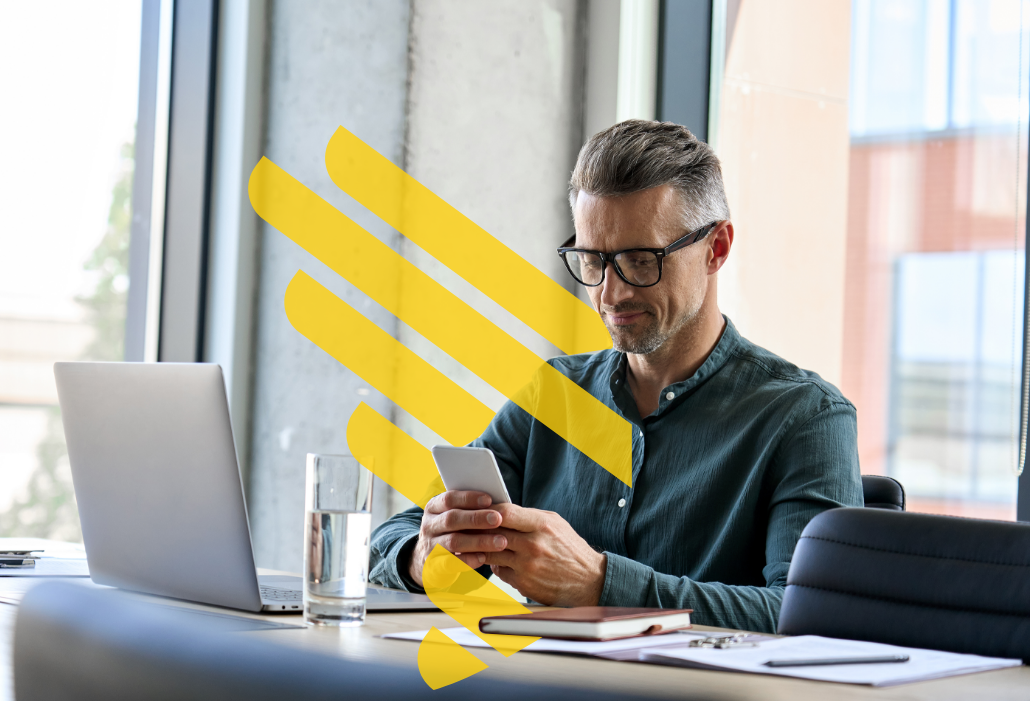
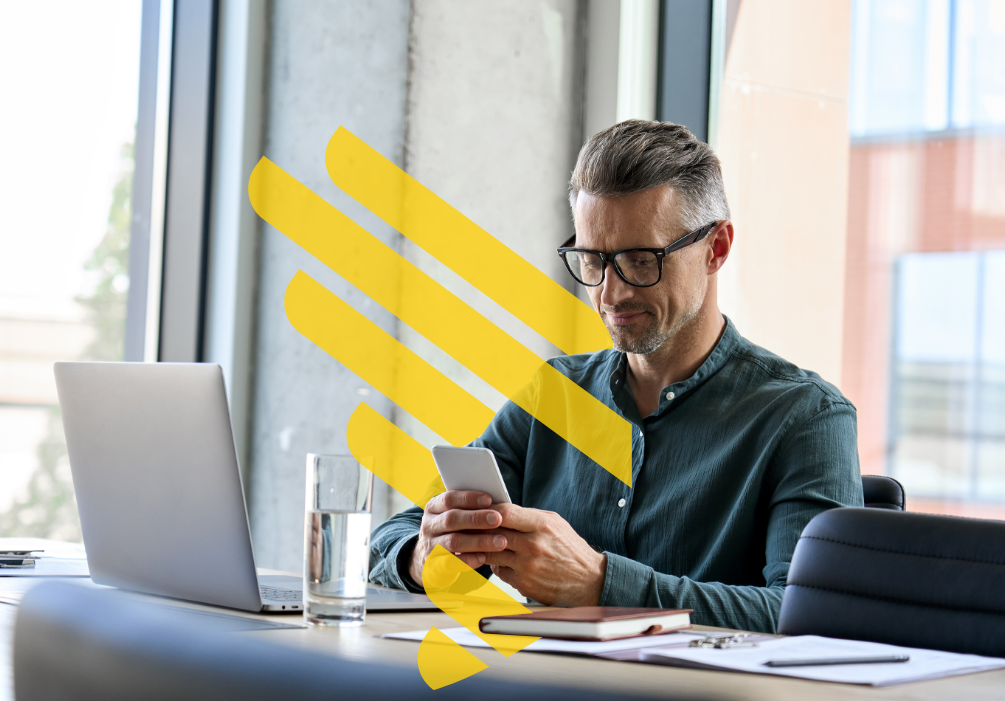
fix: /platform hero picture edge, פוליוויז wording; content coverage report
- landing-hero.png: cropped 25px from the right edge, where the picture faded
  to near-black (1030 -> 1005px); Astro regenerates the responsive sizes.
- /platform card "מסלקה פנסיונית והר הביטוח": the direct connection is to
  פוליוויז, which pulls the הר הביטוח data, as in the content document
  (docs/content-coverage.md X1).
- docs/content-coverage.md: Content agent's item-by-item check of the site
  against the content document (67 of 72 covered; the rest are HubSpot form
  fields and one optional "בקרוב" card).

diff --git a/docs/content-coverage.md b/docs/content-coverage.md
@@ -1,0 +1,245 @@
+# Content coverage: "תוכן לדף אתר NOVIDEA בעברית" vs the Hebrew site
+
+**Owner:** Content agent (`content`) · **Status:** proposal, nothing applied · **Date:** 20/11/2026
+
+**Question asked by the owner:** does the site cover every item in the content document? The wording can differ, but no item, and especially no product module or capability, may be missing or weakened.
+
+**Short answer:** yes for all reader-facing copy. Every heading, sentence, module, capability, advantage and Israel bullet is on the site, including all three "בקרוב" marks and every named integration. The gaps are:
+1. **The lead form** (HubSpot, not site code): two of the six fields ("תפקיד" and "גודל הסוכנות") don't exist, and two more ("שם הסוכנות / בית הסוכן", "דוא״ל עסקי") exist only under generic labels. This is already open in `Open tasks.md` §3.
+2. **One "בקרוב" module is shown smaller than in the document.** Automatic download of production files from the insurers' websites is its own bullet in the document, but on `/solution` it's a small note under another card.
+3. **One wording conflict on `/platform`.** The page says the system connects directly to הר הביטוח. The document says the connection is to פוליוויז, which pulls the הר הביטוח data.
+
+## How this was checked
+
+- **Document:** `docs/sources/content-document.he.md`. The owner confirmed it matches the PDF they re-attached. Every heading, sentence, bullet, table row and form field counts as one item. Section labels that only say where text goes (for example "כותרת ראשית" or "פתיחת ליד") are counted too and marked "editorial label".
+- **Site:** `src/content/pages/he/*.yaml` (home, solution, capabilities, why-novidea, israel, contact, platform), `src/content/shared/he.yaml`, the Hebrew values in `src/i18n/ui.ts`, and the block components to see what actually renders (`FeaturesBlock.astro` for `soon` / `soonNote`, `LeadForm.astro` for `fields`). `/solution` was also checked on the live site (https://novidea-israel.vercel.app/solution, 20/11/2026): all 14 cards and the 3 "בקרוב" labels render as the YAML says.
+- **Not verified directly:** the HubSpot form. It loads inside HubSpot's iframe only after marketing-cookie consent, so the repo can't show it. Its current fields come from `Open tasks.md` §3.
+- **Pending questions:** items waiting on Novidea in `docs/content-review.md` (Q3–Q18) are referenced here, not re-opened.
+
+## Summary
+
+| Status | Count | Of which editorial labels |
+|---|---|---|
+| Covered | 67 | 5 |
+| Partial | 3 | 0 |
+| Missing | 2 | 0 |
+| **Total items** | **72** | 5 |
+
+One partial item is a module (M6, how it's displayed on `/solution`). The other two partials and both missing items are HubSpot form fields. No text is missing from the homepage, `/solution`, `/capabilities`, `/why-novidea` or `/israel`.
+
+Field paths: `sections[id]` is the block with that `id`; indexes (`items[n]`, `paragraphs[n]`, `intro[n]`, `names[n]`) count from 1.
+
+---
+
+## 1. Coverage matrix
+
+### 1.1 כותרת ראשית, מסרים נוספים, טקסט מקוצר (homepage)
+
+| # | Document item | Site location | Status | Note |
+|---|---|---|---|---|
+| H1 | Section label "כותרת ראשית" | `home.yaml` `hero` | Covered (editorial label) | |
+| H2 | "נובידאה - פלטפורמת הענן המובילה לניהול סוכנויות ובתי סוכן" | `home.yaml` `hero.titleStrong` + `hero.titleRest`; also `shared/he.yaml` `footerAbout` | Covered | The site adds "ביטוח" ("סוכנויות ביטוח"), which is clearer and better for SEO |
+| H3 | Section label "מסרים נוספים" | `home.yaml` `hero.lead` | Covered (editorial label) | |
+| H4 | "כל עולם הביטוח הישראלי. מערכת אחת אחודה. אינסוף אפשרויות צמיחה." | `home.yaml` `hero.lead` | Covered | Verbatim. The optional style change ("אחודה") in content-review §3.1 wasn't approved and doesn't affect coverage |
+| H5 | Section label "טקסט מקוצר" | `home.yaml` `sections[overview]` | Covered (editorial label) | |
+| H6 | Digital revolution in insurance, InsurTech cloud platform, data-driven, international awards | `home.yaml` `sections[overview].paragraphs[1]`, first sentence | Covered | "מונחית" is the approved spelling fix |
+| H7 | Speeds up growth, profitability and operational efficiency for agencies and brokers, with analytics tools and real-time business insights | `sections[overview].paragraphs[1]`, second sentence | Covered | |
+| H8 | Strong CRM base on Salesforce, a core system for the agency, the client at the center, connecting all the agency's processes | `sections[overview].paragraphs[2]` | Covered | |
+| H9 | "מתיאום פגישות, מכירות, הפקה, פרודוקציה וניהול שירות ועד ניהול תביעות וחידושים…" | `sections[overview].paragraphs[3]` | Covered | All seven stages are there |
+| H10 | "הפלטפורמה שמובילה את הסוכנויות ובתי הסוכן הגדולים בישראל" | `home.yaml` `sections[customers].title`; same on `/platform` | Covered | |
+| H11 | מבטח סימון | `sections[customers].names[1]` (logo; the name is its alt text) | Covered | |
+| H12 | קלי | `sections[customers].names[2]` | Covered | The logo reads "kali.group". Official name pending (Q9) |
+| H13 | אמנון גור | `sections[customers].names[3]` | Covered | The logo reads "GUR קבוצת ביטוח". Official name and alt text pending (Q9) |
+| H14 | "ועוד" | `sections[customers].more` | Covered | |
+
+### 1.2 הבעיה והפתרון (`/solution`)
+
+| # | Document item | Site location | Status | Note |
+|---|---|---|---|---|
+| S1 | Section label "הבעיה והפתרון" | `ui.ts` `nav.solution`; `home.yaml` `sections[explore].items[1].title` | Covered | Used as the page's menu label |
+| S2 | "נפרדים מעבודה עם ריבוי מערכות ומצווארי בקבוק תפעוליים" | `solution.yaml` `header.title` (h1); also home `explore.items[1].body` | Covered | |
+| S3 | "במשך שנים… עשרות מסכים, פורטלים של יצרנים, קובצי אקסל ומערכות Legacy ישנות שאינן מתקשרות ביניהן." | `solution.yaml` `header.intro[1]`, first sentence | Covered | |
+| S4 | "התוצאה: עומס תפעולי כבד, סרבול בעבודה, איבודי מידע וקושי בצמיחה." | `header.intro[1]`, second sentence | Covered | All four outcomes; "אובדן מידע" is the approved fix |
+| S5 | "נובידאה מביאה קונספט אחר - Single Source of Truth" | `sections[single-source-of-truth].title` | Covered | |
+| S6 | One platform for all agency activity: pension, general (P&C), financial and personal lines | `sections[single-source-of-truth].paragraphs[1]`, first sentence | Covered | All four lines of business |
+| S7 | "מניהול הליד הראשוני ועד קליטת פרודוקציה, ניהול התביעה והשירות." | same paragraph, second sentence | Covered | |
+| S8 | Open API architecture, connects easily to any tool, portal or interface | same paragraph, third sentence | Covered | |
+| S9 | "בנובידאה תמצאו מגוון מודולים ויכולות המותאמים לשוק הישראלי:" | `sections[modules].title` | Covered | |
+
+#### Modules (the 15 bullets)
+
+`/solution` has 14 cards for the 15 bullets: bullet M6 appears as a `soonNote` under card 5.
+
+| # | Document bullet | Site location (`solution.yaml` `sections[modules]`) | Status | Note |
+|---|---|---|---|---|
+| M1 | אינטגרציות מובנות לרכיבים מרכזיים באקו-סיסטם הביטוחי בישראל | `items[1].title` | Covered | No body, same as the document |
+| M2 | ממשקים למסלקה הפנסיונית ולהר הביטוח: direct connection to the pension clearing house and **פוליוויז** for הר הביטוח data and policy copies | `items[2]` title + body | Covered | All names present: מסלקה, פוליוויז, הר הביטוח, העתקי פוליסות. See X1 for `/platform` |
+| M3 | Returns and exposure tracking: built-in integration with **ביטוח-נט, גמל-נט ופנסיה-נט**, monthly | `items[3]` | Covered | All three sites named, plus "מדי חודש" |
+| M4 | Integration with **רשות המסים**: automatic submission of the employment-termination form (טופס עזיבת עבודה) for arrangement agencies | `items[4]` | Covered | Includes "סוכנויות הסדרים" |
+| M5 | Production and insurers: an advanced, flexible engine for importing production files from Israeli insurers | `items[5]` title + body | Covered | |
+| M6 | **בקרוב:** the system logs in to insurers' websites by itself, downloads the production files and imports them | `items[5].soonNote` (with a "בקרוב" label) | **Partial** | The text and the "בקרוב" label are intact. But a standalone bullet in the document is a smaller-type note under M5 on the site, while the other standalone "בקרוב" bullet (M8) gets its own card. Fix: P1 |
+| M7 | Real-time simulators and quotes: built-in interface to **פורמלי**'s sales simulator and **קוואלה**'s car price-quote engine | `items[6]` | Covered | Both names present. Term "ציטוט" pending (Q12) |
+| M8 | **בקרוב:** renewal price quote. The system logs in to insurers' websites and enters the policy data to produce a renewal quote | `items[7]` with `soon: true` (label above the title) | Covered | The "בקרוב" label is shown |
+| M9 | Digital channels and lead capture: direct connections to tech partners and digital networks, real time | `items[8]` | Covered | |
+| M10 | General (P&C) production import: car, home and business policies from insurers' files into the client file | `items[9]` | Covered | |
+| M11 | Full client-portfolio report; **בקרוב:** automatic email monthly, quarterly, half-yearly or yearly | `items[10]` body + `soonNote` | Covered | The "בקרוב" mark is shown on the extra, as in the document |
+| M12 | Renewals mechanism: all car, home and business policies renewing soon, with tracking of each renewal | `items[11]` | Covered | The body uses "בקרוב" as plain text ("שמתחדשות בקרוב"), next to "בקרוב" labels that mean "coming soon". The rewrite in content-review §3.2 removes the ambiguity (pending, not re-opened) |
+| M13 | Fleet tools, importing policy copies, syncing special terms | `items[12]` title + body | Covered | |
+| M14 | Full Open API: third-party systems, call center, customer portal, enterprise app | `items[13]` | Covered | All four targets present |
+| M15 | Group health policies (קולקטיבים): importing Excel files, managing policies, employees and family members, tracking enrollment status | `items[14]` | Covered | |
+
+### 1.3 יכולות ליבה: מקצה לקצה (`/capabilities`)
+
+| # | Document item | Site location (`capabilities.yaml`) | Status | Note |
+|---|---|---|---|---|
+| C1 | "יכולות ליבה: מקצה לקצה" | `header.title` (h1); `ui.ts` `nav.capabilities`; home `explore.items[2].title` | Covered | |
+| C2 | Group "ניהול מסע לקוח" | `sections[customer-journey].title` | Covered | |
+| C3 | מליד ועד פוליסה: scheduling, הזנקת הר הביטוח, pre-advice, meeting prep, importing simulator output after the sale, clearing-house and personal-lines data, quote and issuance | `sections[customer-journey].items[1]` | Covered | Verbatim, every step present. Jargon pending (Q13) |
+| C4 | תמונת לקוח 360° עם תובנות AI: client and family analysis, insurance gaps, coverage recommendations | `sections[customer-journey].items[2]` | Covered | Whether this is live or a preview is pending (Q18, F5) |
+| C5 | Group "תפעול, שירות ו-BPM מתקדם" | `sections[operations].title` | Covered | |
+| C6 | BPM: automated service, claims and renewal processes, SLA, built-in team tasks, manager tools for control and workload routing | `sections[operations].items[1]` | Covered | |
+| C7 | Paperless Office: smart filing, digital signatures, automatic letters, proposals and forms, **Docomotion** | `sections[operations].items[2]` | Covered | |
+| C8 | Service requests: full **Mail to Case** mechanism, fast service, full monitoring | `sections[operations].items[3]` | Covered | Existing TODO(verify) on "מנגנון מוצרי מלא" (Q3) |
+| C9 | Group "דשבורדים, BI וקבלת החלטות" | `sections[dashboards].title` | Covered | |
+| C10 | Real-time business dashboards and reports, built without development or technical knowledge | `sections[dashboards].items[1]` title + body | Covered | "עסקיים" and "בזמן אמת" are in the title. Existing TODO(verify) on the word missing after "על בסיס" (Q4) |
+| C11 | Production data control: checking production data against what's recorded in the system, to fix issues and improve profitability | `sections[dashboards].items[2]` | Covered | |
+
+### 1.4 למה נובידאה? (`/why-novidea`)
+
+| # | Document item | Site location (`why-novidea.yaml`) | Status | Note |
+|---|---|---|---|---|
+| W1 | "למה נובידאה?" | `header.title` (h1); `ui.ts` `nav.why`; home `explore.items[3].title` | Covered | |
+| W2 | Table header "היתרון / מה זה אומר עבור הסוכנות שלך?" | `header.intro[1]` ("…שלכם?") + card title/body = advantage/meaning | Covered | Plural address, per the style rules |
+| W3 | Cloud-Native אמיתי: access from anywhere, no local servers, continuous updates, zero downtime | `sections[advantages].items[1]` | Covered | "אפס זמני השבתה" is kept here; it's pending (Q6) |
+| W4 | Global product on one of the strongest CRMs, deeply adapted to the Israeli market | `sections[advantages].items[2]` | Covered | |
+| W5 | Security and privacy: ISO, SOC2, privacy regulations | `sections[advantages].items[3]` | Covered | Whose certifications these are is pending (Q5, F4) |
+| W6 | AI-driven innovation: automation, shorter operating times, data-driven insights | `sections[advantages].items[4]` | Covered | "מבוססת" replaces "מונעת" (approved) |
+
+### 1.5 המטה כאן בישראל (`/israel`)
+
+| # | Document item | Site location (`israel.yaml`) | Status | Note |
+|---|---|---|---|---|
+| I1 | "המטה כאן בישראל – יחד איתכם בכל שלב" | `header.title` (h1); `ui.ts` `nav.israel`; home `explore.items[4]` | Covered | |
+| I2 | Global company with operations in London, the US and Europe; heart, HQ and R&D in Israel | `header.intro[1]` | Covered | Verbatim. The office wording conflicts with the press releases (F2, Q7, pending) |
+| I3 | "כשאתם עובדים עם נובידאה… מעטפת מקומית מקצה לקצה:" | `header.intro[2]` | Covered | |
+| I4 | Local management, product and R&D | `sections[local-support].items[1]` | Covered | |
+| I5 | Customer Success and dedicated implementation support, from specification through migration to daily work | `sections[local-support].items[2]` | Covered | |
+| I6 | Technical support in Hebrew, matched to local working hours and patterns | `sections[local-support].items[3]` | Covered | |
+
+### 1.6 פתיחת ליד (lead banner, `/contact`, `/platform`)
+
+| # | Document item | Site location | Status | Note |
+|---|---|---|---|---|
+| L1 | Section label "פתיחת ליד" | `shared/he.yaml` `leadCta` (every page except `/contact` and `/platform`); `/contact`; `/platform` `sections[lead-form]` | Covered (editorial label) | |
+| L2 | "מוכנים להוביל את הסוכנות לעידן הבא?" | `contact.yaml` `header.title`; `shared/he.yaml` `leadCta.title`; `platform.yaml` `sections[lead-form].title` | Covered | |
+| L3 | "הצטרפו לסוכנויות המובילות בישראל שמנהלות את תיק הלקוחות שלהם וצומחות בנובידאה." | `contact.yaml` `header.intro[1]`; `leadCta.body`; `platform.yaml` `sections[lead-form].intro` | Covered | "שלהן" is the approved fix |
+| L4 | "השאירו פרטים והצוות שלנו יחזור אליכם לשיחת היכרות והדגמה." | same three fields | Covered | |
+| L5 | Label "שדות הטופס:" | `contact.yaml` `sections[lead-form].fields` (reference list) | Covered (editorial label) | `fields` is shown **only if there are no `hubspot` settings**, so visitors never see this list. The real form is HubSpot's |
+
+#### Form fields (HubSpot form `05171e84-…`, portal 2799426)
+
+The site has the six fields only as a reference list (`contact.yaml` `sections[lead-form].fields[1–6]`, not rendered; `/platform` has `fields: []`). `Open tasks.md` §3 says the live HubSpot form has first name, last name, company, email and phone, and no role or agency size.
+
+| # | Document field | In the HubSpot form today | Status | Note |
+|---|---|---|---|---|
+| F1 | שם מלא | First name + last name | Covered | Same data in two fields. No change needed |
+| F2 | שם הסוכנות / בית הסוכן | "Company" field | **Partial** | The field exists, but the document's label isn't confirmed. Fix: P2 |
+| F3 | תפקיד (מנכ"ל / סמנכ"ל תפעול / מנהל מערכות מידע / אחר) | No field | **Missing** | Fix: P4. Open tasks §3 |
+| F4 | דוא"ל עסקי | "Email" field | **Partial** | The field exists, but "עסקי" (business) isn't confirmed in the label. Fix: P3 |
+| F5 | טלפון | Phone | Covered | |
+| F6 | גודל הסוכנות (10-30 / 30-100 / +100 משתמשים) | No field | **Missing** | Fix: P5. Open tasks §3. Range overlap pending (Q14) |
+
+---
+
+## 2. Proposed fixes (nothing applied)
+
+### P1. Make M6 its own "בקרוב" card on `/solution` (module M6)
+
+**Where:** `src/content/pages/he/solution.yaml`, `sections[modules]`. Existing fields only; no Structure change.
+
+**Why:** in the document, automatic download of production files is a standalone "בקרוב" bullet, like the renewal-quote bullet (M8). On the site, M8 has its own card with a label and M6 is a small note. As a separate card, the two upcoming automations get equal weight. It also brings the grid to 15 cards, five full rows of three, instead of 14 with a two-card last row.
+
+**Change:**
+1. In `items[5]` ("קליטת פרודוקציה ויצרנים"), delete the `soonNote` line.
+2. Insert this new item right after `items[5]`:
+
+```yaml
+      - icon: time-automation
+        title: "קליטה אוטומטית מאתרי חברות הביטוח"
+        body: "המערכת תיכנס בצורה אוטומטית לאתרי חברות הביטוח בעצמה, תוריד את קובצי הפרודוקציה ותקלוט אותם למערכת."
+        soon: true
+```
+
+The body is the current approved `soonNote` text, unchanged. If the owner also approves the style rewrite in content-review §3.2, use this body instead: "המערכת תיכנס בעצמה לאתרי חברות הביטוח, תוריד את קובצי הפרודוקציה ותקלוט אותם אוטומטית." The `time-automation` icon is already in `src/assets/icons/icons.yaml` (used on `/platform`).
+
+**Knock-on for Testing:** if `tests/e2e/site.spec.ts` counts the `/solution` cards (14) or the "בקרוב" labels, the count changes to 15 cards. The number of "בקרוב" labels stays at 3.
+
+### P2–P5. HubSpot form fields (F2, F3, F4, F6)
+
+**Where:** in HubSpot (form `05171e84-3123-41fc-81e0-3f8626cb3574`), not in the site code. This is the open item in `Open tasks.md` §3 ("Fields to match the content document"). Someone with HubSpot access (owner or Novidea marketing) has to make the change. Nothing changes under `src/`: `contact.yaml` `fields` already lists all six.
+
+| Fix | Field | HubSpot label (ready to paste) | Type and options |
+|---|---|---|---|
+| P2 | F2 | שם הסוכנות / בית הסוכן | Single-line text (the existing Company property) |
+| P3 | F4 | דוא״ל עסקי | Email (the existing property) |
+| P4 | F3 | תפקיד | Dropdown: מנכ״ל · סמנכ״ל תפעול · מנהל מערכות מידע · אחר |
+| P5 | F6 | גודל הסוכנות | Dropdown: 10-30 משתמשים · 30-100 משתמשים · 100+ משתמשים |
+
+Notes:
+- P4 and P5 use the document's options, with gershayim (״). Q14 is still pending and isn't re-opened here. It asks whether to make the role inclusive ("מנהל/ת מערכות מידע") and whether to fix the overlapping ranges with no option under 10 ("עד 10 / 11–30 / 31–100 / 100+").
+- "100+" is mixed-direction text. After the change, check in the RTL form that it doesn't display as "+100". If it does, write the option as "100 משתמשים ומעלה", which means the same thing and has no direction issue.
+- Same open task: set the form language to Hebrew (error messages are in English today).
+
+### P6. `/platform`: point to the full module list (optional, owner decision)
+
+`/platform` is a campaign summary, so it doesn't need every item. Every module is on `/solution` and `/capabilities`. But the campaign page shows none of the Israel-specific integrations (ביטוח-נט, גמל-נט, פנסיה-נט, רשות המסים, פורמלי, קוואלה, קולקטיבים, ציי רכב), and unlike the marketing draft (`docs/marketing/landing-page.he.md` §4: "לכל היכולות ← /capabilities"), it has no link to the full list. If the owner wants campaign visitors to reach them, add an existing `links` block right after `sections[platform]` in `src/content/pages/he/platform.yaml`:
+
+```yaml
+  - type: links
+    id: more
+    title: "כל המודולים והיכולות"
+    surface: subtle
+    items:
+      - icon: puzzle
+        title: "הבעיה והפתרון"
+        body: "כל המודולים לשוק הישראלי: המסלקה הפנסיונית ופוליוויז, ביטוח-נט, גמל-נט ופנסיה-נט, רשות המסים, פורמלי וקוואלה, קולקטיבים, ציי רכב וחידושים."
+        href: "/solution"
+      - icon: product-module
+        title: "יכולות ליבה: מקצה לקצה"
+        body: "ניהול מסע הלקוח, BPM מתקדם, משרד ללא נייר עם Docomotion, טיפול בפניות שירות ודשבורדים בזמן אמת."
+        href: "/capabilities"
+```
+
+Every fact here is already on those two pages, and both icons are already used on the homepage. `surface: subtle` continues the band of the cards above it; Design/Code may prefer another surface. The trade-off is a marketing call: links off a campaign page can pull visitors away from the form.
+
+---
+
+## 3. Site content not in the document, checked for conflicts
+
+Only conflicts are listed. Extra content that agrees with the document isn't listed: customer quotes, the video, the Ra'anana office section on `/contact`, the footer blurb, SEO text, and the problem cards and summaries on `/platform`.
+
+| # | Where | Site text | Document | Proposed |
+|---|---|---|---|---|
+| X1 | `platform.yaml` `sections[platform].items[2].body` | חיבור ישיר למסלקה הפנסיונית ולהר הביטוח, כולל העתקי פוליסות. | "חיבור ישיר למסלקה הפנסיונית **ולפוליוויז** לטובת שליפת נתוני הר הביטוח והעתקי הפוליסות" (M2) | **Replace with:** חיבור ישיר למסלקה הפנסיונית ולפוליוויז, לשליפת נתוני הר הביטוח והעתקי פוליסות. The site text claims a direct connection to הר הביטוח, which the document doesn't make: the data comes through פוליוויז. The card title "מסלקה פנסיונית והר הביטוח" can stay (the document's own heading names both). The owner approved this copy (marketing draft), so the owner must approve the change |
+
+Checked and consistent (no action):
+- `/platform` drops "אפס זמני השבתה" (W3) and the AI-innovation row (W6). That's acceptable on a summary page; both are in full on `/why-novidea`. W3 is pending Q6 anyway.
+- `/contact` "המשרדים שלנו" (Ra'anana, from `docs/sources/office-location.he.md`) agrees with I2 ("המטה… כאן בישראל").
+- `footerAbout` and every `seo.*` field use only document facts.
+
+---
+
+## 4. Decisions needed
+
+**Owner**
+1. **P1:** approve splitting M6 into its own "בקרוב" card on `/solution`.
+2. **X1:** approve the `/platform` wording fix (פוליוויז, not a direct הר הביטוח connection).
+3. **P6 (optional):** add a link block from `/platform` to the full module list, or keep the campaign page focused on the form.
+4. **P2–P5:** make the HubSpot form changes, or ask Novidea marketing to make them (`Open tasks.md` §3).
+
+**Novidea (already open in `docs/content-review.md` §7, not re-opened)**
+- Q14: form ranges and the inclusive role option (affects P4, P5).
+- Q3 (Mail to Case, C8) and Q4 (missing word after "על בסיס", C10): the two existing `TODO(verify)` comments in `capabilities.yaml`.
+- Q5 (ISO / SOC 2, W5), Q6 (zero downtime, W3), Q7 and F2 (offices, I2), Q9 (customer names, H12 and H13), Q12 ("ציטוט", spellings of פוליוויז / פורמלי / קוואלה, M2 and M7), Q13 (הזנקה, ממשקי פרט, C3), Q18 (AI live or preview, C4).
+
+The existing `TODO(verify)` comments in `src/` are unchanged by this review: `home.yaml` (video captions), `capabilities.yaml` (×2), `why-novidea.yaml` and `platform.yaml` (quote approvals), `privacy.yaml` (×2, legal), and `ui.ts` (consent wording, legal).

diff --git a/docs/content-review.md b/docs/content-review.md
@@ -2,6 +2,8 @@
 
 **Owner:** Content agent (`content`) · **Status:** partly applied (see "Status" below) · **Date:** 20/11/2026
 
+Coverage check of the site against the content document, item by item: `docs/content-coverage.md` (20/11/2026).
+
 ## Status: applied 20/11/2026
 
 The owner approved two groups: (1) Hebrew corrections that don't change meaning or facts, plus the two `seo.description` fixes, and (2) the Howden, Marsh and Leaderim quote tweaks. Only the **minimal** correction was applied, not the full rewrites proposed in §3. Everything else in this document is still a proposal.
